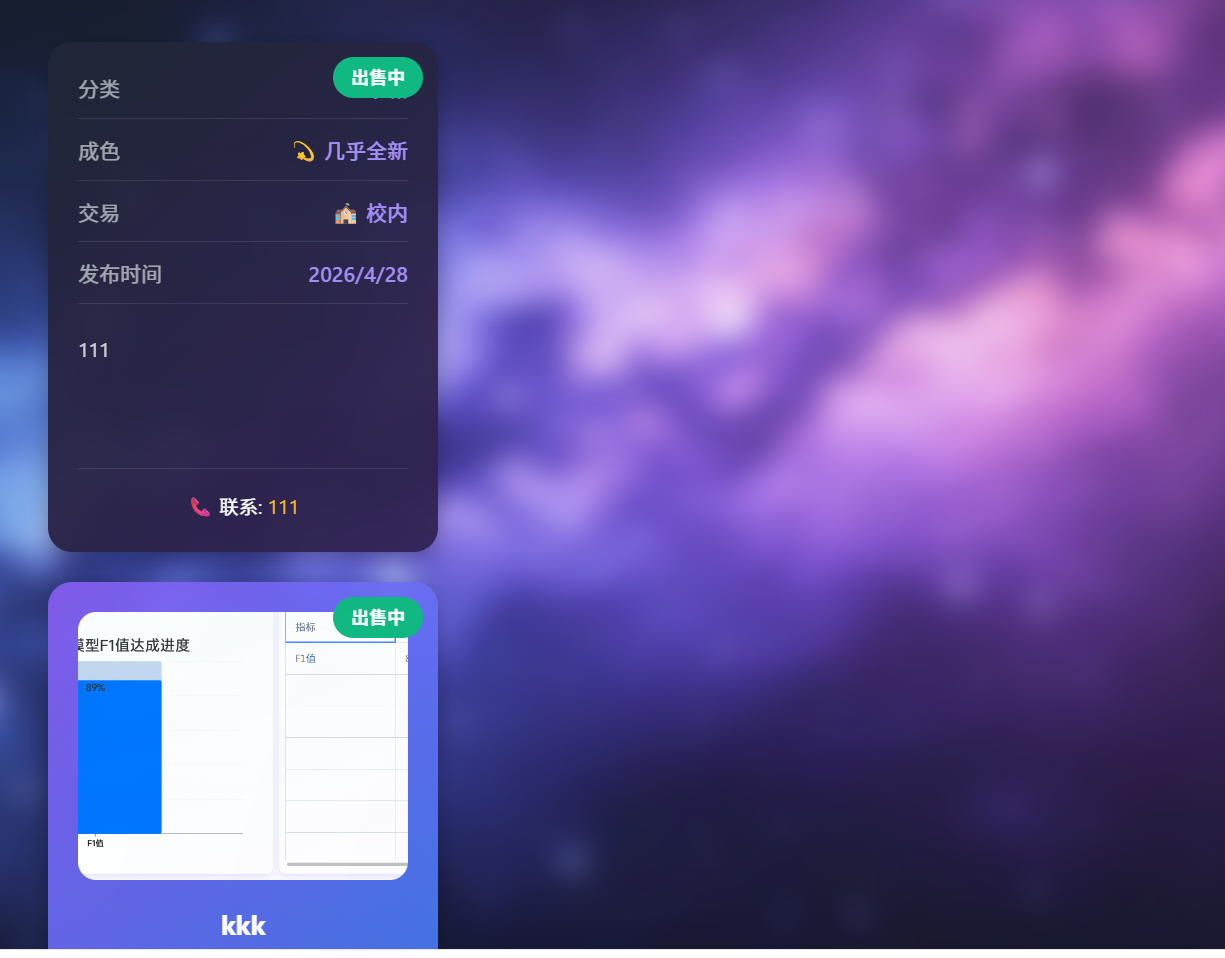
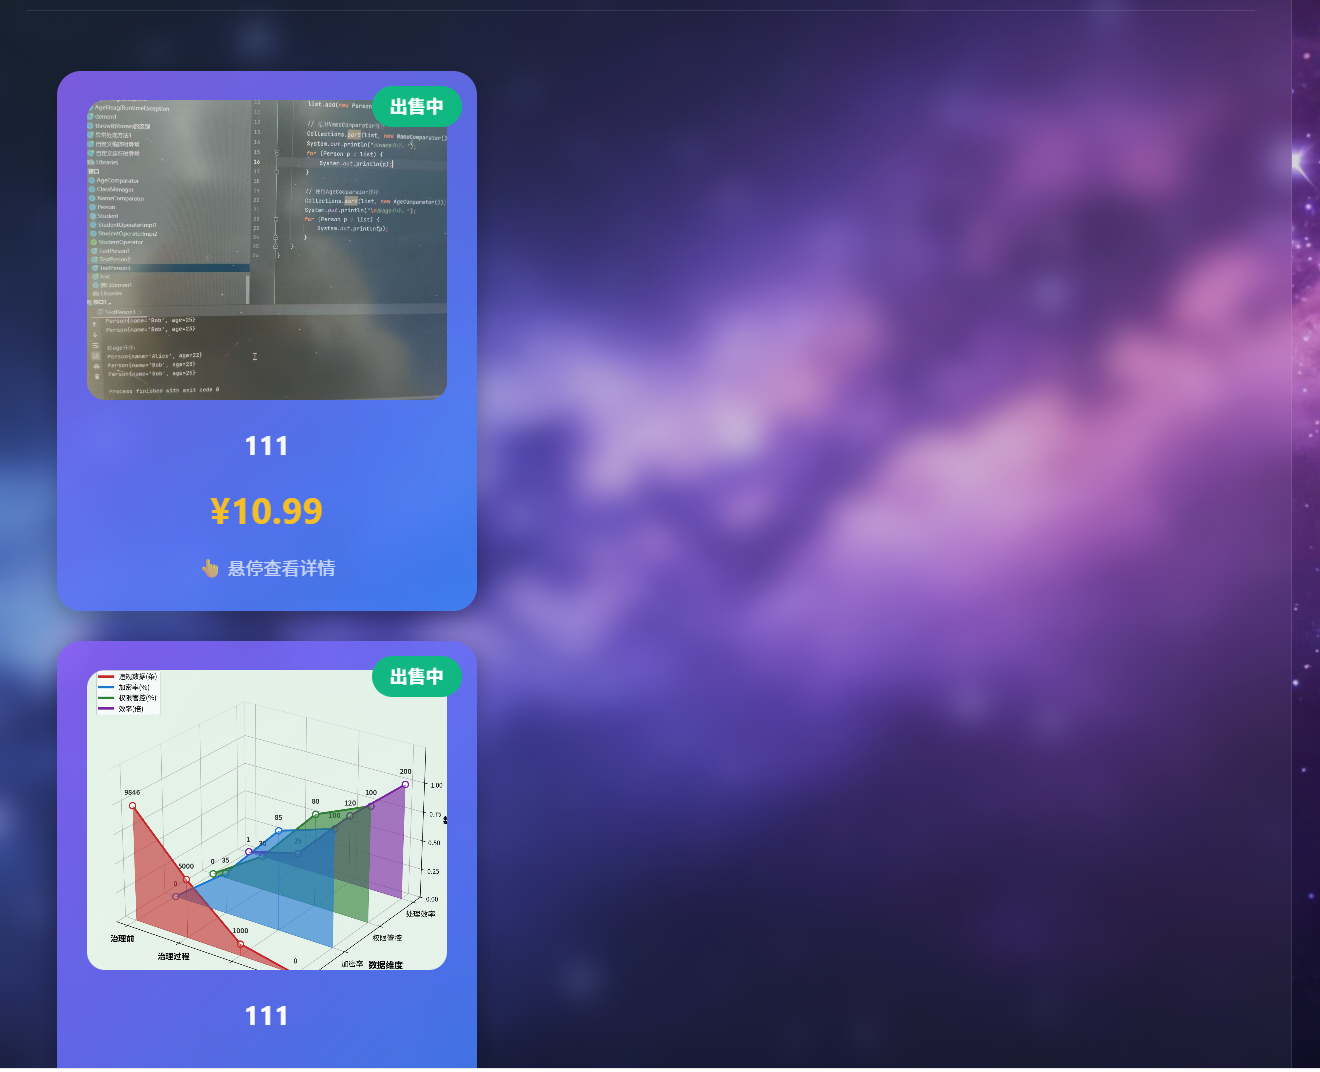
fix: 添加内联style强制卡片横向布局

diff --git a/HNAU_SecondHand/release_goods.html b/HNAU_SecondHand/release_goods.html
@@ -709,11 +709,11 @@
         </div>
         
         <!-- 我的发布区域 -->
-        <div class="my-publications" id="myPublicationsSection">
+        <div class="my-publications" id="myPublicationsSection" style="display: flex; flex-direction: column; gap: 20px;">
             <div class="publications-header">
                 <h2>📦 我的发布</h2>
             </div>
-            <div class="publications-container" id="myPublicationsContainer">
+            <div class="publications-container" id="myPublicationsContainer" style="display: flex; flex-wrap: wrap; gap: 20px; justify-content: flex-start;">
                 <div class="loading">加载中...</div>
             </div>
         </div>
@@ -1044,7 +1044,7 @@
             
             // 渲染翻转卡片
             const gridHtml = `
-                <div class="publications-grid">
+                <div class="publications-grid" style="display: flex; flex-wrap: wrap; gap: 20px; justify-content: flex-start;">
                     ${myGoods.map(item => {
                         const statusMap = {
                             'selling': { text: '出售中', class: 'status-available' },
@@ -1068,7 +1068,7 @@
                         };
                         
                         return `
-                            <div class="flip-card">
+                            <div class="flip-card" style="flex: 0 0 260px; height: 340px; position: relative; margin: 0;">
                                 <span class="status-badge ${status.class}">${status.text}</span>
                                 <div class="flip-card-inner">
                                     <div class="flip-card-front">
